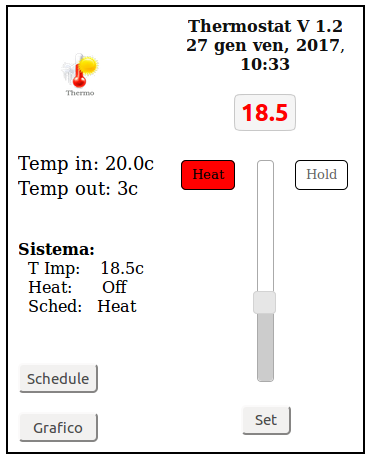
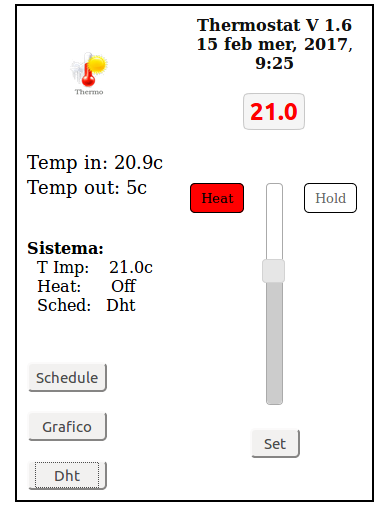
Add Dht web - Correct temperature

diff --git a/web/html/thermostat.html b/web/html/thermostat.html
@@ -94,6 +94,8 @@
 							<input  type="submit" value="Schedule" onclick="window.location = 'schedule'; return false;" />
 							<br></br>
 							<input  type="submit" value="Grafico" onclick="window.location = 'graph'; return false;" />
+							<br></br>
+							<input  type="submit" value="Dht" onclick="window.location = 'redirect'; return false;" style="display:@@dhtsubmit@@"/>
 						</div>
 					</td>
 					<td align="center">

diff --git a/thermostat.py b/thermostat.py
@@ -287,7 +287,6 @@ windFactor		= 3.6 if tempScale == "metric" else 1.0
 windUnits		= " km/h" if tempScale == "metric" else " mph"
 
 TEMP_TOLERANCE	= 0.1 if tempScale == "metric" else 0.18
-
 currentTemp		= 20.0 if tempScale == "metric" else 72.0
 priorCorrected	= -100.0
 correctedTemp	= 0
@@ -328,6 +327,7 @@ elevation	  	  = 0 if not( settings.exists( "thermostat" ) ) else settings.get( 
 boilingPoint	  = ( 100.0 - 0.003353 * elevation ) if tempScale == "metric" else ( 212.0 - 0.00184 * elevation )
 freezingPoint	  = 0.01 if tempScale == "metric" else 32.018
 referenceRange	  = boilingPoint - freezingPoint
+correctSensor	  = 0 if not( settings.exists( "thermostat" ) ) else settings.get( "calibration" )[ "correctSensor" ]
 
 boilingMeasured   = settings.get( "calibration" )[ "boilingMeasured" ]
 freezingMeasured  = settings.get( "calibration" )[ "freezingMeasured" ]
@@ -393,6 +393,8 @@ dhtUm			= 0
 dht_label		= Label( text= " ",size_hint = (None,None), font_size = '25sp', markup=True, text_size= (300,75),color=( 0.5, 0.5, 0.5, 0.2 ))
 dhtTest			= 0
 dhtSchedule     = 0
+dhtCorrect		= 0 if not( settings.exists( "dhtext") ) else settings.get("dhtext" )[ "dhtCorrect" ]
+dhtweb = "http://" + settings.get( "dhtext" )[ "dhtClientIP" ] + "/"
 
 def get_dht( url ):
 		return json.loads( urllib2.urlopen( url, None, 5 ).read() )
@@ -402,7 +404,7 @@ def dht_load (dt):
 	try	:	
 		dhtUrl			= "http://"+settings.get("dhtext" )[ "dhtClientIP" ]+"/dati"
 		dhtread = get_dht(dhtUrl )
-		dhtTemp=dhtread["S_temperature"]
+		dhtTemp=dhtread["S_temperature"] 
 		dhtUm=dhtread["S_humidity"]
 		dht_label.text = "Dht : T: "+str(dhtTemp)+" c , Ur: "+str(dhtUm)+" %"
 		dhtEnabled 	= 1
@@ -732,7 +734,7 @@ def check_sensor_temp( dt ):
 		global tempSensor,dhtTemp	
 		if dhtEnabled == 1 and dhtTemp <> 0:			
 			rawTemp = dhtTemp
-			correctedTemp = ( ( ( rawTemp - freezingMeasured ) * referenceRange ) / measuredRange ) + freezingPoint
+			correctedTemp = ( ( ( rawTemp - freezingMeasured ) * referenceRange ) / measuredRange ) + freezingPoint + dhtCorrect
 			currentTemp = round( correctedTemp, 1 )
 			log( LOG_LEVEL_DEBUG, CHILD_DEVICE_TEMP, MSG_SUBTYPE_CUSTOM + "/dhtTemp", str( rawTemp ) )
 			log( LOG_LEVEL_DEBUG, CHILD_DEVICE_TEMP, MSG_SUBTYPE_CUSTOM + "/corrected", str( correctedTemp ) )
@@ -740,7 +742,7 @@ def check_sensor_temp( dt ):
 		else:
 			if tempSensor is not None:
 				rawTemp = tempSensor.get_temperature( sensorUnits )
-				correctedTemp = ( ( ( rawTemp - freezingMeasured ) * referenceRange ) / measuredRange ) + freezingPoint
+				correctedTemp = ( ( ( rawTemp - freezingMeasured ) * referenceRange ) / measuredRange ) + freezingPoint + correctSensor
 				currentTemp = round( correctedTemp, 1 )
 				log( LOG_LEVEL_DEBUG, CHILD_DEVICE_TEMP, MSG_SUBTYPE_CUSTOM + "/raw", str( rawTemp ) )
 				log( LOG_LEVEL_DEBUG, CHILD_DEVICE_TEMP, MSG_SUBTYPE_CUSTOM + "/corrected", str( correctedTemp ) )
@@ -978,11 +980,11 @@ class ThermostatApp( App ):
 		# Start checking the temperature
 		Clock.schedule_interval( check_sensor_temp, tempCheckInterval )
 		if dhtEnabled == 1:
-				Clock.schedule_once(dht_load,3)
+				Clock.schedule_once(dht_load,2)
 		# Show the current weather  		
-		Clock.schedule_once( display_current_weather, 8 )
+		Clock.schedule_once( display_current_weather, 6 )
 		#initialize knob		
-		Clock.schedule_once( knob_init, 5 )
+		Clock.schedule_once( knob_init, 4 )
 		
 		return layout
 
@@ -1106,7 +1108,11 @@ class WebInterface(object):
 			html = html.replace( "@@dt@@", dateLabel.text.replace( "[b]", "<b>" ).replace( "[/b]", "</b>" ) + ", " + timeLabel.text.replace( "[b]", "<b>" ).replace( "[/b]", "</b>" ) )
 			html = html.replace( "@@heatChecked@@", "checked" if heatControl.state == "down" else "" )
 			html = html.replace( "@@holdChecked@@", "checked" if holdControl.state == "down" else "" )
-	
+			if dhtEnabled == 0:
+				html = html.replace ("@@dhtsubmit@@", "none")
+			else:
+				html = html.replace ("@@dhtsubmit@@", "true")
+
 		return html
 
 
@@ -1219,6 +1225,49 @@ class WebInterface(object):
 		file.close()
 		
 		return html
+	
+	@cherrypy.expose
+	def redirect(self):
+		global dhtweb
+
+		#file =  open( "web/html/dhtweb.html", "r" )
+
+		f = urllib2.urlopen(dhtweb,None,5)
+
+		#file.close
+
+		#html = html.replace( "@@dhtconn@@", str( dhtweb ) )
+
+		return f
+
+	@cherrypy.expose
+	def grafico(self):
+		global dhtweb
+
+		#file =  open( "web/html/dhtweb.html", "r" )
+
+		f = urllib2.urlopen(dhtweb+"grafico",None,5)
+
+		#file.close
+
+		#html = html.replace( "@@dhtconn@@", str( dhtweb ) )
+
+		return f
+
+	@cherrypy.expose
+	
+	def tabella(self):
+		global dhtweb
+
+		#file =  open( "web/html/dhtweb.html", "r" )
+
+		f = urllib2.urlopen(dhtweb+"tabella",None,5)
+
+		#file.close
+
+		#html = html.replace( "@@dhtconn@@", str( dhtweb ) )
+
+		return f
 
 def startWebServer():	
 	host = "discover" if not( settings.exists( "web" ) ) else settings.get( "web" )[ "host" ]

diff --git a/README.md b/README.md
@@ -54,6 +54,10 @@ Key features include:
 
 ![Thermostat Edit Schedule - Web UI](resources/thermostat_graph.png)
 
+**Thermostat Dht Web:**
+
+![Thermostat DHT_Logger - Web ](resources/dht_web.png)
+
 **Thermostat Hardware - Internals:**
 
 ![Thermostat wifi Modified - Internals](resources/thermostat_wifi.jpg)
@@ -70,7 +74,7 @@ The author's final internals, before the case top was installed.
 
 ![Thermostat Installation](resources/thermostat_installed.jpg)
 
-![Thermostat Installed Min UI](resources/thermostat_min_installed.jpg)
+![Thermostat Installed Min UI](resources/thermostat_installedminUI.png)
 
  You can see the temperature sensor in a separated place in the own printed box.
 
